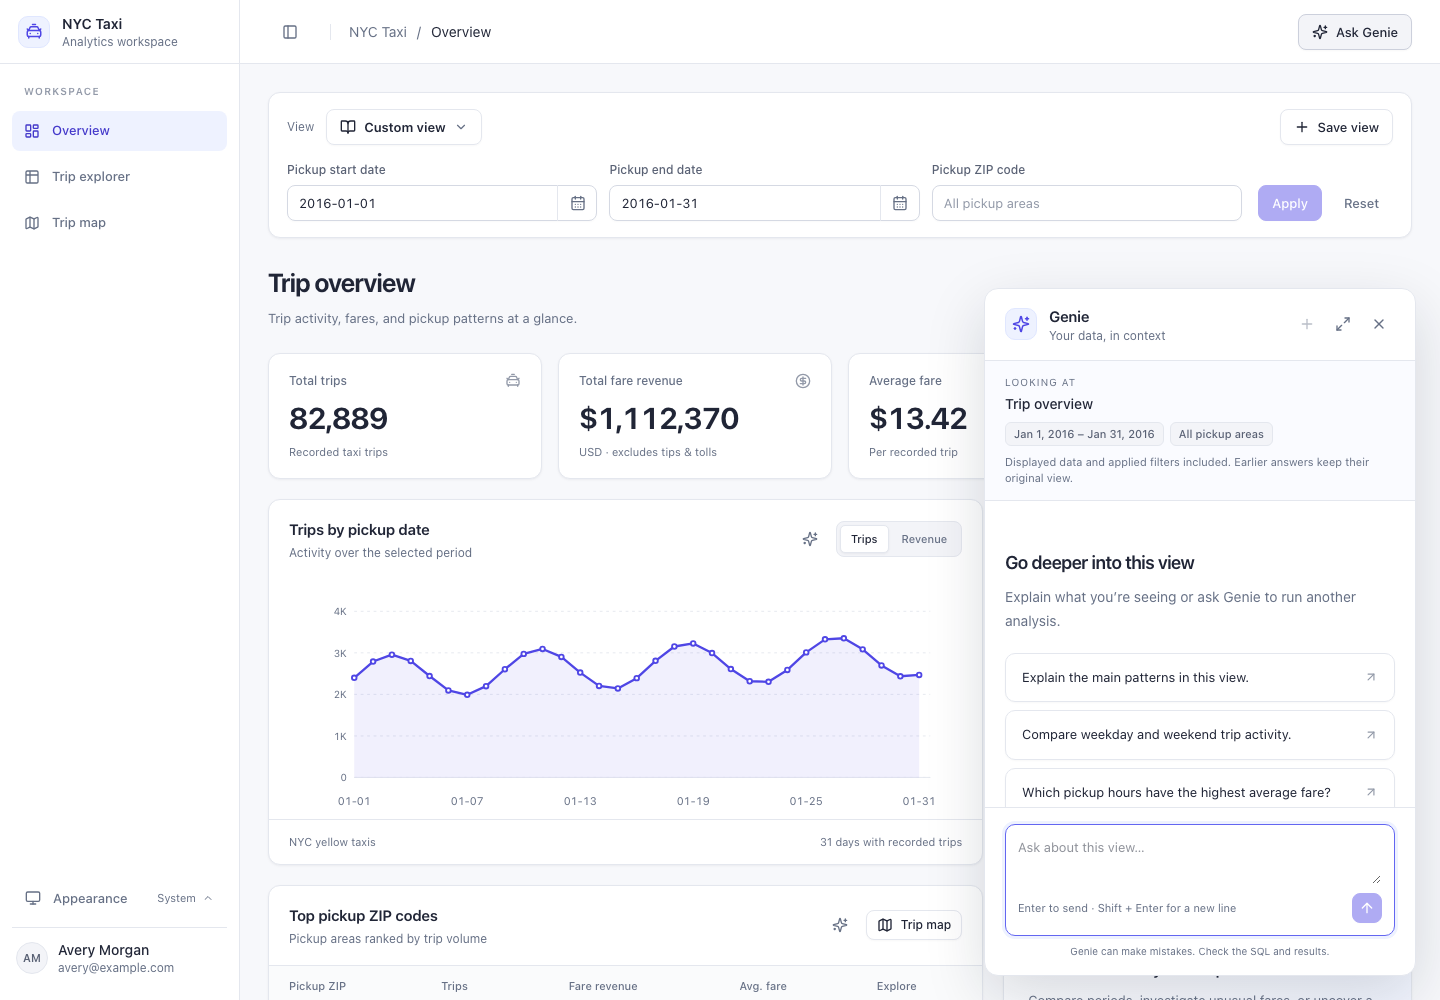
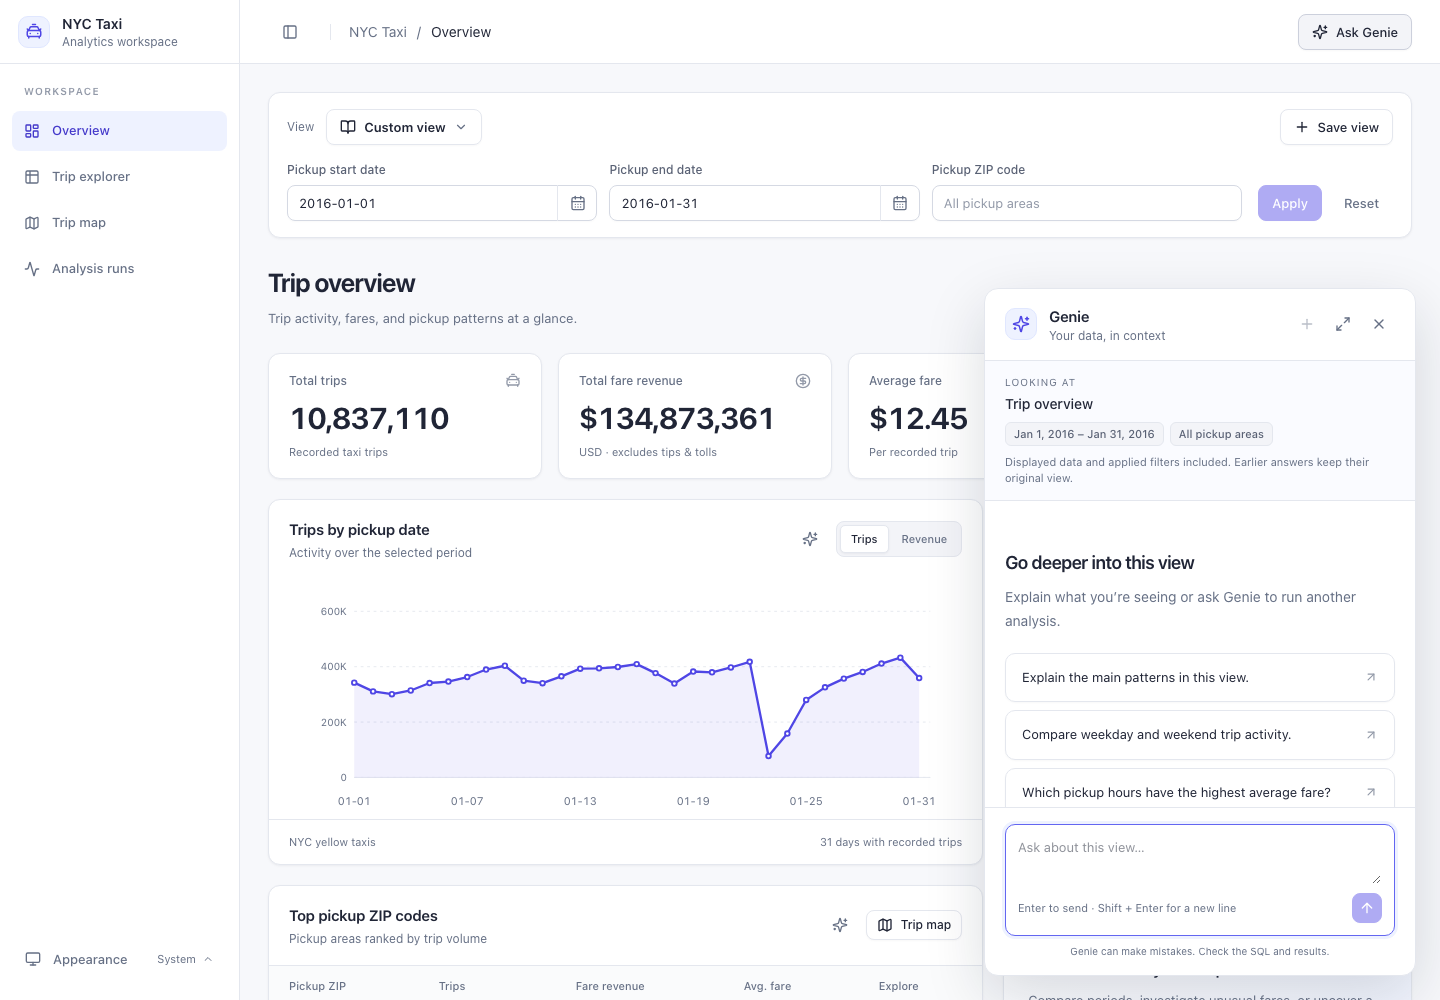
Document analysis runs and refresh the README screenshot

diff --git a/README.md b/README.md
@@ -1,14 +1,14 @@
 # Databricks Apps + Effect
 
 This TypeScript starter for Databricks Apps uses historical NYC taxi trips to
-show how to query Databricks SQL, ask Genie about the current view, and save
-shared work in Lakebase.
+show how to query Databricks SQL, ask Genie about the current view, save
+shared work in Lakebase, and run a Databricks job.
 
 [Deploy the example](DEPLOYMENT.md) ·
 [Use your own data](#use-your-own-data) ·
 [Reuse the SQL adapter](packages/sql-databricks/README.md)
 
-![NYC taxi overview with trip metrics, a daily activity chart, and the Genie helper](.github/assets/nyc-taxi.png)
+![January 2016 NYC taxi trip metrics and daily activity with the Genie helper open](.github/assets/nyc-taxi.png)
 
 ## What the example does
 
@@ -17,9 +17,17 @@ shared work in Lakebase.
 - **Genie** answers questions using the active filters and the selected chart,
   record, or map area. The app displays answers, result tables, and generated SQL.
 - **Lakebase** stores saved filters, findings, and comments on trip records.
+- **Databricks Jobs** runs a SQL task to compare 90th-percentile trip times by
+  pickup ZIP, drop-off ZIP, and time of day.
 
 Effect manages server services and their lifetimes. The server and the Foldkit
 client share the same HTTP contract and runtime schemas. [HTTP contract](shared/api.ts)
+
+## Run an analysis
+
+In **Analysis runs**, select **New run**. Choose the start dates for two
+seven-day windows and set the minimum trips per route in each window. Select
+**Run analysis**. Open completed reports from **Recent runs** or the run link.
 
 ## Use your own data
 
@@ -33,6 +41,7 @@ Databricks CLI login. [Deployment guide](DEPLOYMENT.md)
 | API and data types            | [Shared HTTP contract](shared/api.ts) and [domain schemas](shared/domain.ts)             |
 | Filters and views             | [Foldkit features](client/src/features)                                                  |
 | Genie tables and instructions | [Genie resource](resources/genie.yml)                                                    |
+| Route analysis                | [Route reliability SQL](jobs/route-reliability.sql)                                      |
 | Workspace resources           | [Databricks bundle](databricks.yml)                                                      |
 
 The deployed app uses its service principal for data access. Saved views and
